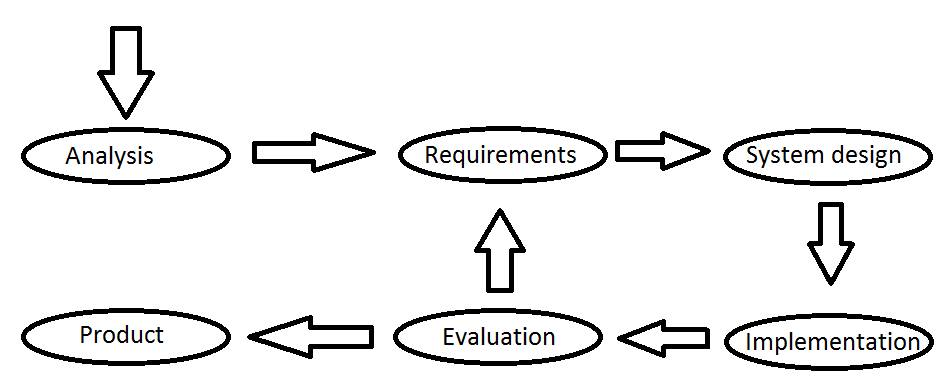
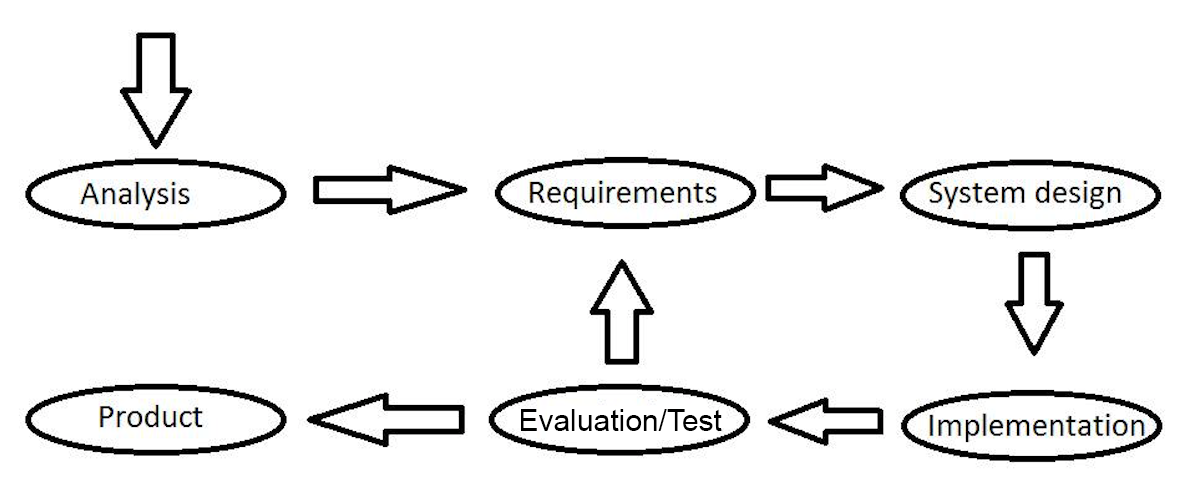
process model + intro
!?!?

diff --git a/Rapport/formalia/forord.tex b/Rapport/formalia/forord.tex
@@ -43,16 +43,16 @@ Throughout the report requirements are split into four colours with four differe
 
 
 \chapter*{Process model}
-The process model is a meld of elements from both plan driven and agile development. The process is plan driven in so far as to include a clear goal of what the initial requirements of the system are. The process model is very agile in that, although there is a clear outline as to what the requirements are, these are incrementally approached, with a simple starting point becoming increasingly covering of the project vision through the subsequent increments.
+The process model is a meld of elements from both plan driven and agile development. The process is plan driven in so far as to include a clear goal of what the initial requirements of the system are. The process model is very agile in that, although there is a clear outline as to what the requirements are, these are incrementally approached, with a simple starting point becoming increasingly covering of the project vision through the subsequent increments. The reason the group approached this project with our 'own' process model is to better explain what we're actually doing, rather than forcing ourselves into picking a development method and try to explain what we're doing according to that method.
 
 The increments will be split up into four sections. Initially some of the already known requirements will be considered from previous increments and for the first increment from the analysis and hardware chapters, and these requirements will be the topic of the increment.
-After the initial requirement consideration, a design phase follows which details the design and problem considerations preceding the implementation. The design phase is then followed by an implementation phase which will explain the implementation process. The final phase is an evaluation of the increment and will concern whether the requirements were fulfilled, or an requirement needs to be altered, or if an requirement will be continued in the following increment. The evaluated requirements from a increment will then become the starting point of the next increment. 
+After the initial requirement consideration, a design phase follows which details the design and problem considerations preceding the implementation. The design phase is then followed by an implementation phase which will explain the implementation process. The final phase is an evaluation of the increment and will concern whether the requirements were fulfilled, or an requirement needs to be altered, or if an requirement will be continued in the following increment. The evaluation will also include several tests of the implementation, in order to see what works and what doesn't. The evaluated requirements from an increment will then become the starting point of the next increment. 
 
 The process includes emphasis on a small group of individuals with tasks usually undertaken by two group members or more, which is to promote cooperation and attempt to avoid having a single individual involved in a task beyond their capabilities and to get a second opinion. This is also to ensure that information is quickly communicated and exchanged by group members. The process uses pair programming because it promotes better programming and is usually very motivating in socially engaging issues with cooperation of project members.
 
 \begin{figure}[h]
 \centering
-\includegraphics[scale=0.35]{billeder/process-model}
+\includegraphics[scale=0.30]{billeder/process-model}
 \caption{Process model used for the project}
 \label{pm}
 \end{figure}

diff --git a/Rapport/kontekst/Systemdesign.tex b/Rapport/kontekst/Systemdesign.tex
@@ -83,7 +83,7 @@ The Arduino should receive this data and read whenever it has sufficient time to
 \section{Scheduling}
 \label{sec:Scheduling}
 %Snakke om de forskellige tasks, deres deadlines og hvliken metode vi vil bruge til at schedule?
-
+In this section, the different scheduling methods are discussed, which will lead to the choice of which method the group uses for the scheduling analysis in this project. 
 
 \subsection{Cyclic Executive}
 \label{sec:Cyclic Executive}
